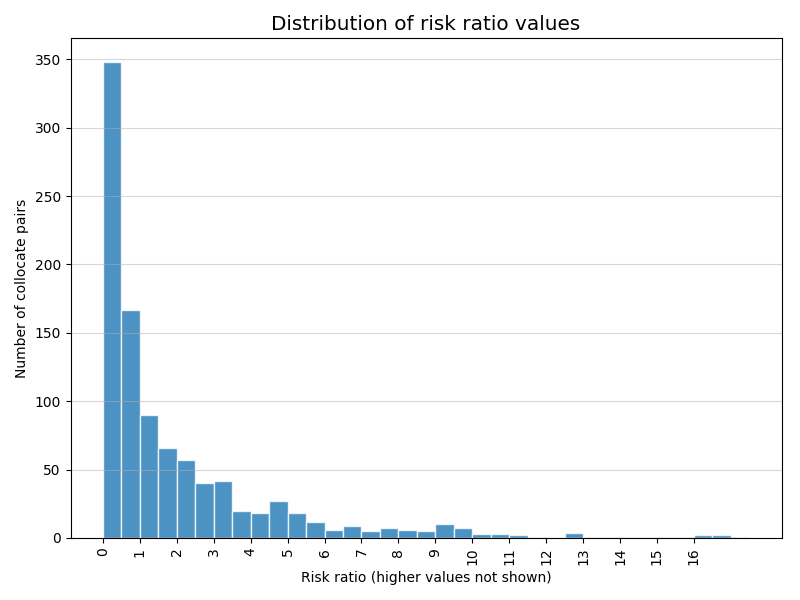
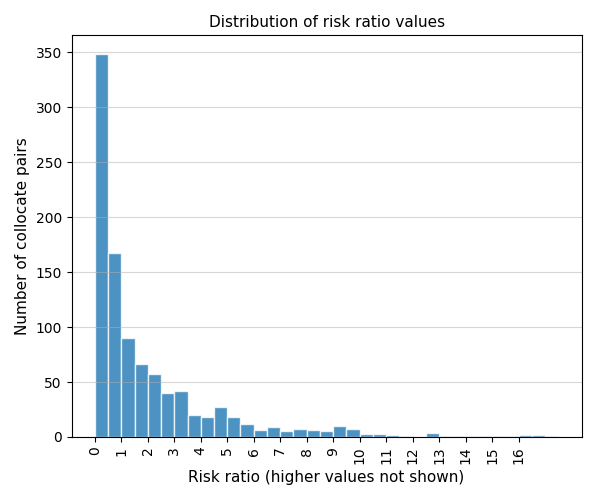
styling updates

Changed region(s): [[0.0, 0.03, 0.99, 0.99]]

diff --git a/d6_graphics/graphing.py b/d6_graphics/graphing.py
@@ -5,7 +5,7 @@ import os
 
 
 def graph_it(title='', xlabel='', ylabel='', fname='', xticks=None, xlim=(),
-             ylim=(), dim=(8, 6)):
+             ylim=(), dim=(6, 5)):
     """
     General graphing function.
 
@@ -20,11 +20,11 @@ def graph_it(title='', xlabel='', ylabel='', fname='', xticks=None, xlim=(),
     """
 
     # Mandatory graph parameters
-    pyplot.gcf().set_size_inches(dim[0], dim[1])
+    pyplot.gcf().set_size_inches(dim)
     pyplot.grid(axis='y', alpha=0.5)
-    pyplot.title(title, fontsize='x-large')
-    pyplot.xlabel(xlabel, fontsize='medium')
-    pyplot.ylabel(ylabel, fontsize='medium')
+    pyplot.title(title, fontsize='11')
+    pyplot.xlabel(xlabel, fontsize='11')
+    pyplot.ylabel(ylabel, fontsize='11')
 
     # Optional graph parameters
     if xlim:
@@ -253,14 +253,14 @@ if __name__ == '__main__':
 
     # Plot specific data
     plot_num_datapoints()
-    # plot_rr()
-    # plot_rrci()
-    # plot_logrr()
-    # plot_integrity()
-    # plot_stem_trigram_rr()
-    # plot_register()
-    # plot_verbtrends()
-    # plot_rr_verb_instance_freq()
-    # plot_rr_verb_type_freq()
+    plot_rr()
+    plot_rrci()
+    plot_logrr()
+    plot_integrity()
+    plot_stem_trigram_rr()
+    plot_register()
+    plot_verbtrends()
+    plot_rr_verb_instance_freq()
+    plot_rr_verb_type_freq()
 
     exit(0)
